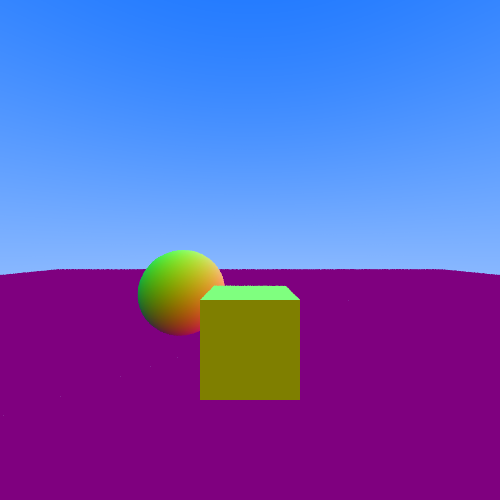
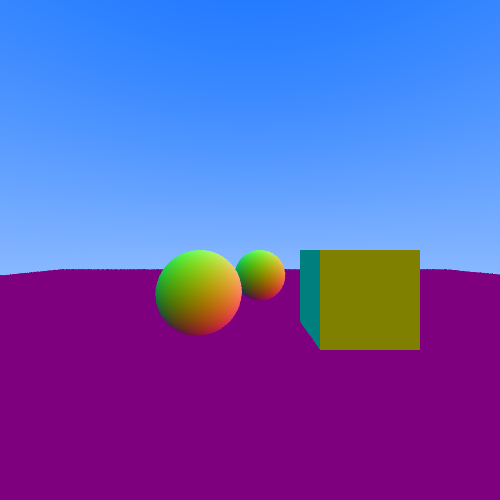
get only nearest hit

Changed region(s): [[0.27, 0.48, 0.84, 0.81]]

diff --git a/main.cc b/main.cc
@@ -71,12 +71,21 @@ glm::vec3 GetMultiSampledColor(const Ray &ray, vector<Hittable *> &world)
 glm::vec3 ColorPixel(const Ray &ray, vector<Hittable*> &world)
 {
     Hit hit;
+    Hit nearestHit;
+    nearestHit.distance = maxDistance;
     std::vector<Hittable*>::iterator hitObj;
     for (const auto& hitObj : world) {
         if (hitObj->IsHitByRay(ray, maxDistance, hit))
         {
-            return float(0.5) * glm::vec3(hit.normal.x + 1, hit.normal.y + 1, hit.normal.z + 1);
+            if (hit.distance < nearestHit.distance)
+            {
+                nearestHit = hit;
+            }
         }
+    }
+    if (nearestHit.distance < maxDistance)
+    {
+        return float(0.5) * glm::vec3(nearestHit.normal.x + 1, nearestHit.normal.y + 1, nearestHit.normal.z + 1);
     }
 
     float t = ray.dir.y + 1.0;
@@ -88,11 +97,15 @@ vector<Hittable*> CreateWorld() {
     vector<Hittable*> world;
     // add cube
     OBJ cube("./obj/cube.obj");
+    cube.translate(glm::vec3(1.0, 0.5, 0.0));
     HittableObj* hcube = new HittableObj(cube);
     world.push_back(hcube);
     // add sphere
     Sphere* sphere = new Sphere(Point(-0.8, 0.5, 0), 0.5);
     world.push_back(sphere);
+    // second sphere
+    Sphere* sphere2 = new Sphere(Point(0, 0.5, 2), 0.5);
+    world.push_back(sphere2);
     // add floor
     OBJ plane("./obj/floor.obj");
     plane.scale(20);

diff --git a/obj/obj.h b/obj/obj.h
@@ -32,6 +32,7 @@ public:
 	bool load(const string& name,const glm::mat4& xf=glm::mat4(1.0f));
 	void normalize();
 	void scale(int factor);
+	void translate(glm::vec3 dir);
 
 	const vector<glm::vec3>& faces() const { return fv; }
 	const vector<glm::vec3>& normals() const { return fvn; }

diff --git a/obj/obj.cc b/obj/obj.cc
@@ -312,6 +312,15 @@ void OBJ::scale(int factor) {
 	}
 }
 
+void OBJ::translate(glm::vec3 dir) {
+	for (auto& v : fv)
+	{
+		v.x += dir.x;
+		v.y += dir.y;
+		v.z += dir.z;
+	}
+}
+
 void OBJ::make_normals()
 {
 	for (int i=0; i<fv.size(); i+=3)
